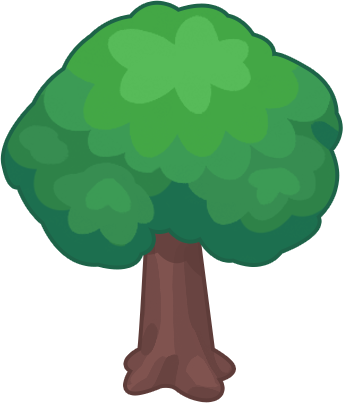
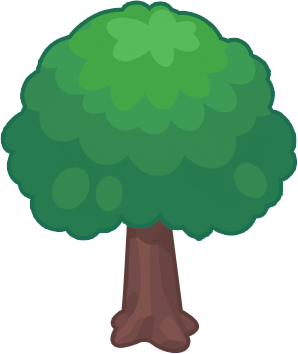
fix color, restyle toolbar

diff --git a/src/modules/assets/terrain.ts b/src/modules/assets/terrain.ts
@@ -23,7 +23,12 @@ export const assetTerrainMap: Record<TerrainId, AssetTerrainData> = {
                 type: AssetMapType.Texture,
                 texture: {
                     assetKey: "terrain-small-stone",
-                    assetUrl: `${PREFIX}/small-stone/small-stone.png`
+                    assetUrl: `${PREFIX}/small-stone/small-stone.png`,
+                    version: 1,
+                    extraOffsets: {
+                        x: 0,
+                        y: -60,
+                    }
                 }
             },
         },
@@ -40,7 +45,12 @@ export const assetTerrainMap: Record<TerrainId, AssetTerrainData> = {
                 type: AssetMapType.Texture,
                 texture: {
                     assetKey: "terrain-small-grass-patch",
-                    assetUrl: `${PREFIX}/small-grass-patch/small-grass-patch.png`
+                    assetUrl: `${PREFIX}/small-grass-patch/small-grass-patch.png`,
+                    version: 1,
+                    extraOffsets: {
+                        x: 0,
+                        y: -60,
+                    }
                 }
             },
         },
@@ -57,7 +67,12 @@ export const assetTerrainMap: Record<TerrainId, AssetTerrainData> = {
                 type: AssetMapType.Texture,
                 texture: {
                     assetKey: "terrain-maple-tree",
-                    assetUrl: `${PREFIX}/maple-tree/maple-tree.png`
+                    assetUrl: `${PREFIX}/maple-tree/maple-tree.png`,
+                    version: 3,
+                    extraOffsets: {
+                        x: 0,
+                        y: -150,
+                    },
                 }
             },
         },
@@ -74,7 +89,12 @@ export const assetTerrainMap: Record<TerrainId, AssetTerrainData> = {
                 type: AssetMapType.Texture,
                 texture: {
                     assetKey: "terrain-oak-tree",
-                    assetUrl: `${PREFIX}/oak-tree/oak-tree.png`
+                    assetUrl: `${PREFIX}/oak-tree/oak-tree.png`,
+                    version: 3,
+                    extraOffsets: {
+                        x: 0,
+                        y: -150,
+                    },
                 }
             },
         },
@@ -91,7 +111,12 @@ export const assetTerrainMap: Record<TerrainId, AssetTerrainData> = {
                 type: AssetMapType.Texture,
                 texture: {
                     assetKey: "terrain-pine-tree",
-                    assetUrl: `${PREFIX}/pine-tree/pine-tree.png`
+                    assetUrl: `${PREFIX}/pine-tree/pine-tree.png`,
+                    version: 1,
+                    extraOffsets: {
+                        x: 0,
+                        y: -150,
+                    },
                 }
             },
         },

diff --git a/src/game/react-ui/Toolbar/index.tsx b/src/game/react-ui/Toolbar/index.tsx
@@ -113,11 +113,10 @@ export const Toolbar: FC = () => {
     }, [filteredTools])
 
     return (
-        <div className="flex gap-2 items-center">
+        <div className="flex gap-2 items-center bg-content-4 rounded-t-lg p-2">
             <ExtendedButton
-                variant="ghost"
+                variant="secondary"
                 size="icon"
-                className="bg-background/50"
                 disabled={fromToolIndex === 0}
                 onClick={() => {
                     dispatch(setFromToolIndex(fromToolIndex - 1))
@@ -125,24 +124,21 @@ export const Toolbar: FC = () => {
             >
                 <ChevronLeftIcon className="w-5 h-5" />
             </ExtendedButton>
-            <div className="flex gap-2 p-2 bg-background/50 rounded-md">
+            <div className="flex gap-2 rounded-md">
                 {filteredTools.map((toolLike) => {
                     if (toolLike.default) {
                         return (
                             <div className="relative" key={toolLike.id}>
                                 <ItemCard
-                                    classNames={{
-                                        card: "",
-                                    }}
+                                    hideCardContentBg={false}
                                     onClick={() => {
                                         dispatch(setSelectedToolId(toolLike.id))
                                     }}
                                     key={toolLike.id}
+                                    frameOnly={false}
                                     quantity={toolLike.quantity}
                                     imageUrl={assetToolsMap[toolLike.id as ToolId]?.base.assetUrl}
                                     tint={toolLike.id !== selectedToolId}
-                                    hideCardContentBg={true}
-                                    frameOnly={false}
                                 />
                                 {toolLike.id === selectedToolId && (
                                     <ScaledImage
@@ -194,9 +190,8 @@ export const Toolbar: FC = () => {
                 })}
             </div>
             <ExtendedButton
-                variant="ghost"
+                variant="secondary"
                 size="icon"
-                className="bg-background/50"
                 disabled={fromToolIndex >= inventories.length - numVisibleInventories}
                 onClick={() => {
                     dispatch(setFromToolIndex(fromToolIndex + 1))

diff --git a/src/game/react-ui/index.tsx b/src/game/react-ui/index.tsx
@@ -31,7 +31,7 @@ export const ReactUI: FC = () => {
                                         imgSrc={user?.avatarUrl}
                                         jazzString={user?.accountAddress}  
                                     />
-                                    <div className="px-2 py-1.5 bg-background/50 rounded-r-md">
+                                    <div className="px-2 py-1.5 bg-content-4/50 rounded-r-md">
                                         <div className="uppercase text-sm">{user?.username}</div>
                                         <div className="text-xs text-muted-foreground">Lv.{user?.level}</div>
                                     </div>
@@ -85,7 +85,7 @@ export const ReactUI: FC = () => {
                                 />
                             ))}
                     </div>
-                    <div className="fixed bottom-6 left-1/2 -translate-x-1/2">
+                    <div className="fixed left-1/2 -translate-x-1/2 bottom-0">
                         <Toolbar />
                     </div>
                 </>

diff --git a/src/components/styled/ItemCard/index.tsx b/src/components/styled/ItemCard/index.tsx
@@ -75,7 +75,7 @@ const ItemCardCore: FC<ItemCardProps> = ({
     return (
         <Card
             className={cn(
-                "w-fit h-fit p-0 min-w-fit min-h-fit border-none shadow-none bg-transparent",
+                "w-fit h-fit p-0 min-w-fit min-h-fit border-none shadow-none",
                 classNames.card
             )}
             onClick={onClick}
@@ -85,7 +85,7 @@ const ItemCardCore: FC<ItemCardProps> = ({
                     "grid place-items-center p-0 w-14 h-14 relative rounded-md",
                     classNames.cardContent,
                     {
-                        "bg-content2": !hideCardContentBg,
+                        "bg-content-2": !hideCardContentBg,
                     }
                 )}
             >

diff --git a/src/app/home/OverviewTab/index.tsx b/src/app/home/OverviewTab/index.tsx
@@ -1,12 +1,13 @@
-import { Card, Image, Spacer } from "@/components"
+import { Card } from "@/components"
 import { ExtendedButton } from "@/components"
 import React, { FC } from "react"
 import { MainVisual } from "../MainVisual"
 import { pathConstants } from "@/constants"
 import { PlayIcon, Share2Icon } from "lucide-react"
-import router from "next/router"
+import { useRouterWithSearchParams } from "@/hooks"
 
 export const OverviewTab: FC = () => {
+    const router = useRouterWithSearchParams()
     return (
         <div>
             <div className="flex flex-col md:flex-row md:gap-4">

diff --git a/src/components/styled/ResourceCard/index.tsx b/src/components/styled/ResourceCard/index.tsx
@@ -7,7 +7,7 @@ interface ResourceCardProps {
 
 export const ResourceCard: FC<ResourceCardProps> = ({ text, iconImgSrc }) => {
     return (
-        <div className="bg-background/50 rounded-r-md px-2 py-1.5 relative">
+        <div className="bg-content-4/50 rounded-r-md px-2 py-1.5 relative">
             <div className="absolute left-0 top-1/2 -translate-y-1/2 -translate-x-1/2">
                 <Image src={iconImgSrc} className="w-10 h-10"/>
             </div>

diff --git a/src/app/globals.css b/src/app/globals.css
@@ -43,7 +43,8 @@ body {
     --content-1: 0 0% 10%;
     --content-2: 33 60% 97%; /* cream - use in card and button */
     --content-3: 30 12% 87%; /* teal - use in hover */
-    --content-4: 32 31% 89%; /* teal - use in hover */
+    --content-4: 31 57% 88%; /* teal - use in hover */
+    --content-5: 22 58% 90%; /* cream - use in card and button */
 
     /* for navbar */
     --navbar: 0 0% 3.9%;

diff --git a/tailwind.config.ts b/tailwind.config.ts
@@ -20,6 +20,7 @@ const config: Config = {
                     "2": "hsl(var(--content-2))",
                     "3": "hsl(var(--content-3))",
                     "4": "hsl(var(--content-4))",
+                    "5": "hsl(var(--content-5))",
                 },
     			background: "hsl(var(--background))", 
     			foreground: "hsl(var(--foreground))",
